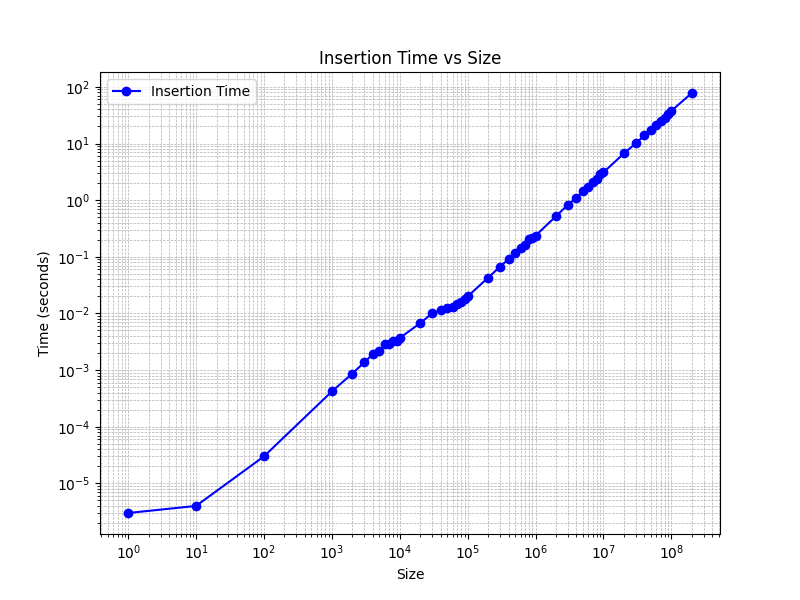
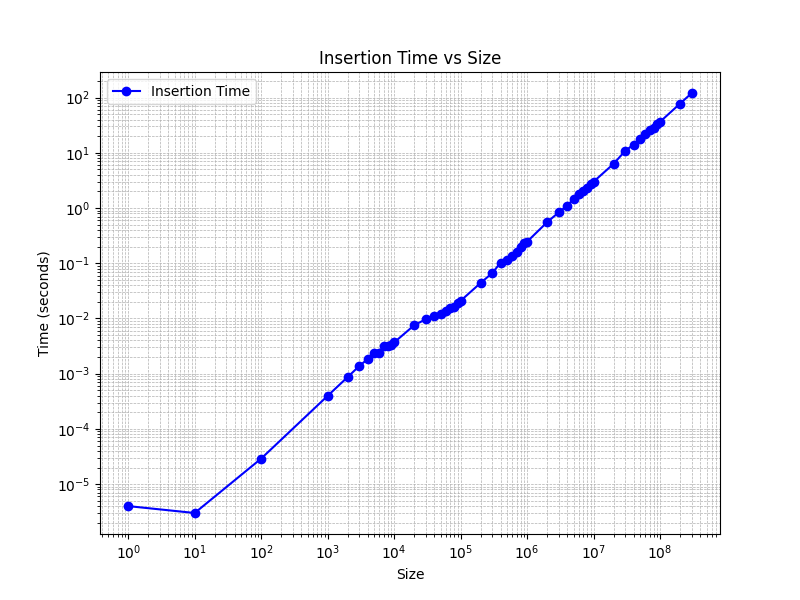
adding results

Changed region(s): [[0.0625, 0.12, 0.9062, 0.93], [0.2188, 0.12, 0.25, 0.15]]

diff --git a/tests/bTrees/test_btrees.c b/tests/bTrees/test_btrees.c
@@ -7,26 +7,35 @@ void benchmarkBTreeOperations(FILE *file, int n)
 {
 
     BTree *tree = createBTree();
-
+    int max =0;
+    int random;
     clock_t start = clock();
     for (int i = 0; i < n; i++)
     {
-        insert(tree, rand() % 1000);
+        random = rand() % 1000;
+        if (random > max){
+            max = random;
+        }
+        insert(tree, random);
     }
     clock_t end = clock();
     double insert_time = ((double)(end - start)) / CLOCKS_PER_SEC;
 
     start = clock();
-    int randomValue = rand() % 1000;
-    bool found = btree_search(tree, randomValue);
+    bool found = btree_search(tree, max);
+    
     end = clock();
 
     double search_time = ((double)(end - start)) / CLOCKS_PER_SEC;
 
-    fprintf(file, "%d,%.6f,%.6f\n", n, insert_time, search_time);
+    start = clock();
+    freeBTree(tree);
+    end = clock();
+
+    double delete_time = ((double)(end - start)) / CLOCKS_PER_SEC;
+    fprintf(file, "%d,%.6f,%.6f,%.6f\n", n, insert_time, search_time,delete_time);
     // fprintf(file, "n=%d, insert time=%.6f\n", n, insert_time);
     fflush(file);
-    freeBTree(tree);
 }
 
 int main()
@@ -40,7 +49,7 @@ int main()
     int num_iterations = sizeof(iterations) / sizeof(iterations[0]);
 
     FILE *file = fopen(results_file, "w");
-    fprintf(file, "Size,insertion,search\n");
+    fprintf(file, "Size,insertion,search,delete\n");
     if (file == NULL)
     {
         perror("Cant open results file.\n");

diff --git a/results/bTrees/plot_heap.py b/results/bTrees/plot_heap.py
@@ -31,4 +31,18 @@ plt.grid(True, which="both", linestyle="--", linewidth=0.5)
 plt.savefig('search_time_vs_size.png')  # Save the second figure
 plt.close()
 
-print("Graphs have been saved as 'insertion_time_vs_size.png' and 'search_time_vs_size.png'")
+# Plot and save the third figure: delete Time vs Size
+plt.figure(figsize=(8, 6))
+plt.plot(data["Size"], data["delete"], label="delete Time", marker="o", color="green")
+plt.xscale("log")
+plt.yscale("log")
+plt.title("delete Time vs Size")
+plt.xlabel("Size")
+plt.ylabel("Time (seconds)")
+plt.legend()
+plt.grid(True, which="both", linestyle="--", linewidth=0.5)
+plt.savefig('delete_time_vs_size.png')  # Save the second figure
+plt.close()
+
+
+print("Graphs have been saved as 'insertion_time_vs_size.png' and 'search_time_vs_size.png' and delete_time_vs_size.png")
